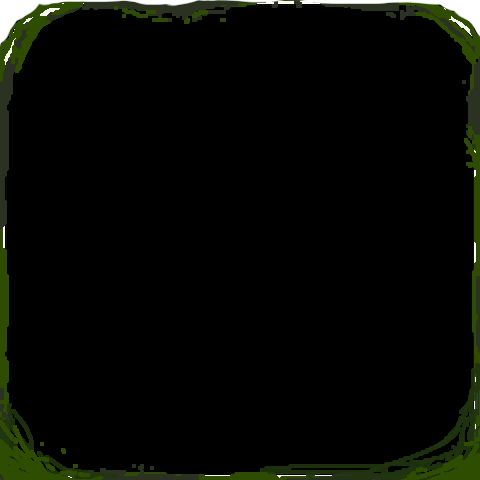
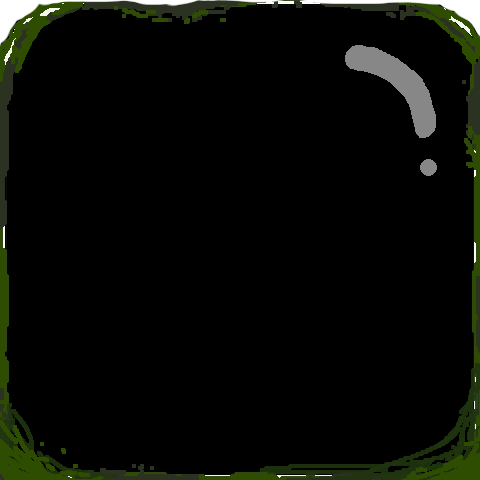
added timer to story

Changed region(s): [[0.7188, 0.0938, 0.9062, 0.375]]

diff --git a/Story.py b/Story.py
@@ -4,62 +4,76 @@ import shooter
 from time import sleep
 
 
-def storyScreen():   
+def storyScreen():
     pygame.init()
     pygame.display.set_caption("Story Of the Game")
     res = (shooter.WIDTH, shooter.HEIGHT)
-    screen = pygame.display.set_mode(res) 
+    screen = pygame.display.set_mode(res)
     bg = pygame.image.load("assets/Story.png")
     new = pygame.transform.scale(bg, (1280, 720))
     screen.blit(new, (0, 0))
     pygame.display.update()
-    
-    wait_time = 300;
-    
+
+    wait_time = 300
+    timer = 3
+    myfont = pygame.font.Font('assets/fonts/PressStart2P-Regular.ttf', 19)
+
+
     # skip story page
     while (wait_time > 0):
-        for ev in pygame.event.get():     
-            if ev.type == pygame.KEYDOWN: 
+        for ev in pygame.event.get():
+            if ev.type == pygame.KEYDOWN:
                 wait_time = 0
         wait_time -= 1
+
+        if wait_time <= 200:
+            timer = 2
+        if wait_time <= 100:
+            timer = 1
+
+        timer_text = myfont.render('Get ready, in... ' + str(timer), False, shooter.WHITE)
+        screen.blit(new, (0, 0))
+        screen.blit(timer_text, (470, 680))
         sleep(0.01)
-    
+
+        pygame.display.flip()
+
+
 def controlHelpScreen():
-    
-    isEscaped = False 
+    isEscaped = False
     while not isEscaped:
         pygame.init()
         pygame.display.set_caption("Story Of the Game")
         res = (shooter.WIDTH, shooter.HEIGHT)
-        screen = pygame.display.set_mode(res) 
+        screen = pygame.display.set_mode(res)
         bg = pygame.image.load("assets/controls.png")
         new = pygame.transform.scale(bg, (1280, 720))
         screen.blit(new, (0, 0))
         # navigate through pages
         pygame.display.update()
-        for ev in pygame.event.get():     
+        for ev in pygame.event.get():
             if ev.type == pygame.KEYDOWN:
                 if ev.key == pygame.K_RIGHT:
                     if (storyHelpScreen()):
                         isEscaped = not isEscaped
                 elif ev.key == pygame.K_ESCAPE:
                     isEscaped = not isEscaped
-                
-                
+
+
 def storyHelpScreen():
     isEscaped = False
     while not isEscaped:
         pygame.init()
         pygame.display.set_caption("Story Of the Game")
         res = (shooter.WIDTH, shooter.HEIGHT)
-        screen = pygame.display.set_mode(res) 
+        screen = pygame.display.set_mode(res)
         bg = pygame.image.load("assets/tutorialScreen2.png")
         new = pygame.transform.scale(bg, (1280, 720))
         screen.blit(new, (0, 0))
         pygame.display.update()
-        for ev in pygame.event.get():     
+        for ev in pygame.event.get():
             if ev.type == pygame.KEYDOWN:
                 if ev.key == pygame.K_LEFT:
-                    return False # return false will not break the control help loop.
+                    return False  # return false will not break the control help loop.
                 elif ev.key == pygame.K_ESCAPE:
-                    return True # return true will break the control help loop as well
+                    return True  # return true will break the control help loop as well
